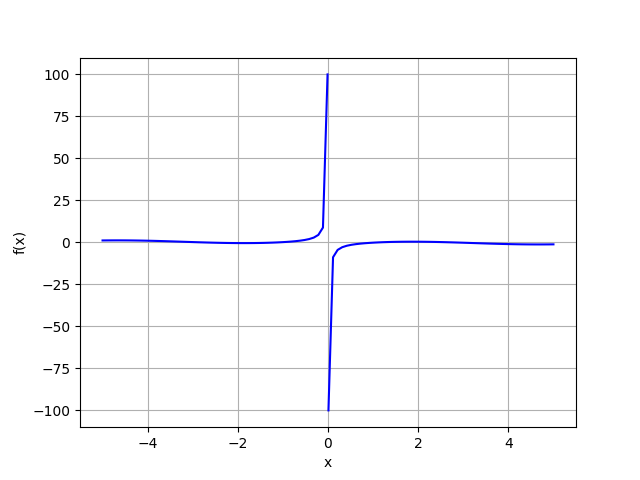
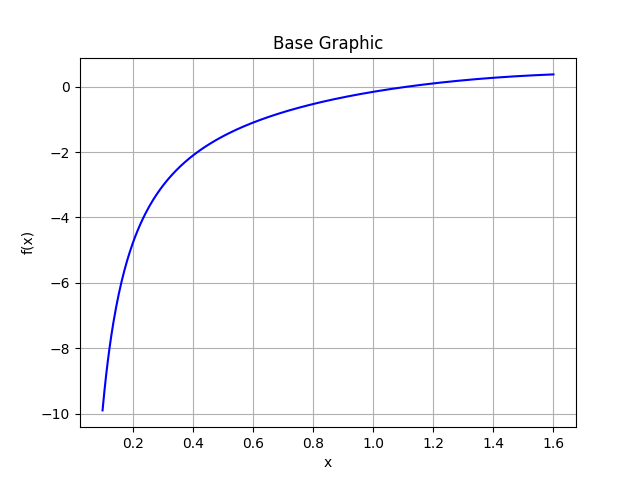
Added OOP + New graphics

diff --git a/lr2/OOPLR2.py b/lr2/OOPLR2.py
@@ -1,0 +1,203 @@
+import numpy as np
+
+from abc import ABC, abstractmethod
+from scipy.integrate import quad, trapezoid, simpson
+from typing import Callable
+from matplotlib import pyplot as plt
+
+
+def func(x: float | np.ndarray) -> float | np.ndarray:
+    return np.sin(x) - 1/x
+
+
+class Statistic:
+    def __init__(self, n: int, delta: float, result: float):
+        self.n = n
+        self.delta = delta
+        self.result = result
+
+
+class FunctionPlotter:
+    def __init__(self, func: Callable[[float], float]):
+        self.func = func
+
+    def create_function_plot(self, a: float, b: float) -> None:
+        x = np.linspace(a, b, 500)
+        plt.plot(x, self.func(x), color="blue")
+        plt.grid()
+        plt.title("Base Graphic")
+        plt.xlabel("x")
+        plt.ylabel("f(x)")
+        plt.savefig("Base_Graphic.png")
+        plt.close()
+
+
+    def integration_plot(self, statistic: list[Statistic], title: str = "Integral") -> None:
+        result = [stat.result for stat in statistic]
+        n = [stat.n for stat in statistic]
+
+        plt.plot(n, result, color="blue")
+        plt.grid()
+        plt.title("Интеграл по количеству дискретизаций")
+        plt.xscale("log")
+        # plt.yscale("log")
+        plt.xlabel("Дискретизация")
+        plt.ylabel("Интеграл")
+        plt.savefig(f"{title.replace(" ", "_")}.png")
+        plt.close()
+
+
+    def error_plot(self, statistic: list[Statistic], title: str = "Error") -> None:
+        delta = [stat.delta for stat in statistic]
+        n = [stat.n for stat in statistic]
+
+        plt.plot(n, delta, color="blue")
+        plt.grid()
+        plt.title("Погрешность по кол-ву дискретизации")
+        plt.xscale("log")
+        # plt.yscale("log")
+        plt.xlabel("Дискретизация")
+        plt.ylabel(r"Погрешность $\delta$")
+        plt.savefig(f"{title.replace(" ", "_")}.png")
+        plt.close()
+
+class BaseIntegrator(ABC):
+    def __init__(self):
+        self._statisticlist: list[Statistic] = []
+
+    @property
+    def statistic(self) -> list[Statistic]:
+        return self._statisticlist
+
+    @abstractmethod
+    def integrate(self, func: Callable[[float], float], a: float, b: float, epsilon: float) -> float:
+        ...
+
+
+class RectIntegrator(BaseIntegrator):
+    def integrate(self, func: Callable[[float], float], a: float, b: float, epsilon: float) -> float:
+        n = 2
+        delta: float | None = None
+        result_prev: float | None = None
+
+        while delta is None or delta > epsilon:
+            h = (b - a) / n
+            x = a + h / 2
+            result = 0
+            
+            while x < b:
+                result += func(x) * h
+                x += h
+            
+            if result_prev is not None:
+                delta = abs(result - result_prev)
+            
+            result_prev = result
+            n *= 2 
+            self._statisticlist.append(Statistic(n, delta, result))
+        
+        assert result_prev is not None
+        return result_prev
+
+
+class TrapezoidIntegrator(BaseIntegrator):
+    def integrate(self, func: Callable[[float], float], a: float, b: float, epsilon: float) -> float:
+        n = 2
+        delta: float | None = None
+        result_prev: float | None = None
+
+        while delta is None or delta > epsilon:
+            h = (b - a) / n
+            x = a
+            result = (func(a) + func(b)) / 2 
+            
+            for i in range(1, n):
+                x = a + i * h
+                result += func(x)
+            
+            result *= h
+            
+            if result_prev is not None:
+                delta = abs(result - result_prev)
+            
+            result_prev = result
+            n *= 2 
+            self._statisticlist.append(Statistic(n, delta, result))
+        
+        assert result_prev is not None
+        return result_prev
+
+class SimpsonIntegrator(BaseIntegrator):
+    def integrate(self, func: Callable[[float], float], a: float, b: float, epsilon: float) -> float:
+        n = 2
+        delta: float | None = None
+        result_prev: float | None = None
+
+        while delta is None or delta > epsilon:
+            h = (b - a) / n
+            result = func(a) + func(b)
+            
+            x = a + h
+            while x < b:
+                result += 4 * func(x)
+                x += 2 * h
+            
+            x = a + 2 * h
+            while x < b - h/2:
+                result += 2 * func(x)
+                x += 2 * h
+            
+            result *= h / 3
+            
+            if result_prev is not None:
+                delta = abs(result - result_prev)
+            
+            result_prev = result
+            n *= 2
+            self._statisticlist.append(Statistic(n, delta, result))
+        
+        assert result_prev is not None
+        return result_prev
+    
+
+if __name__ == "__main__":
+    a, b = 0.1, 1.6
+    epsilon = 1e-5
+
+    plotter = FunctionPlotter(func)
+    plotter.create_function_plot(a, b)
+
+    print("Self made integrals:")
+    print("Rect Method")
+    rect = RectIntegrator()
+    print(rect.integrate(func, a, b, epsilon))
+
+    print("Trapezoid Method")
+    trapez = TrapezoidIntegrator()
+    print(trapez.integrate(func, a, b, epsilon))
+
+    print("Simpson Method")
+    simpson_integrator = SimpsonIntegrator()
+    print(simpson_integrator.integrate(func, a, b, epsilon))
+
+    plotter.integration_plot(rect.statistic, "RectIntegral")
+    plotter.integration_plot(trapez.statistic, "TrapezIntegral")
+    plotter.integration_plot(simpson_integrator.statistic, "SimpsonIntegral")
+
+    plotter.error_plot(rect.statistic, "RectError")
+    plotter.error_plot(trapez.statistic, "TrapezError")
+    plotter.error_plot(simpson_integrator.statistic, "SimpsonError")
+
+    print("Scipy methods:")
+    x = np.linspace(0.1, 1.6, 50)
+
+    print("Rect Method")
+    print(quad(func, 0.1, 1.6)[0])
+
+    print("Trapezoid Method")
+    print(trapezoid(func(x), x))
+
+    print("Simpson Method")
+    print(simpson(func(x), x))
+
+